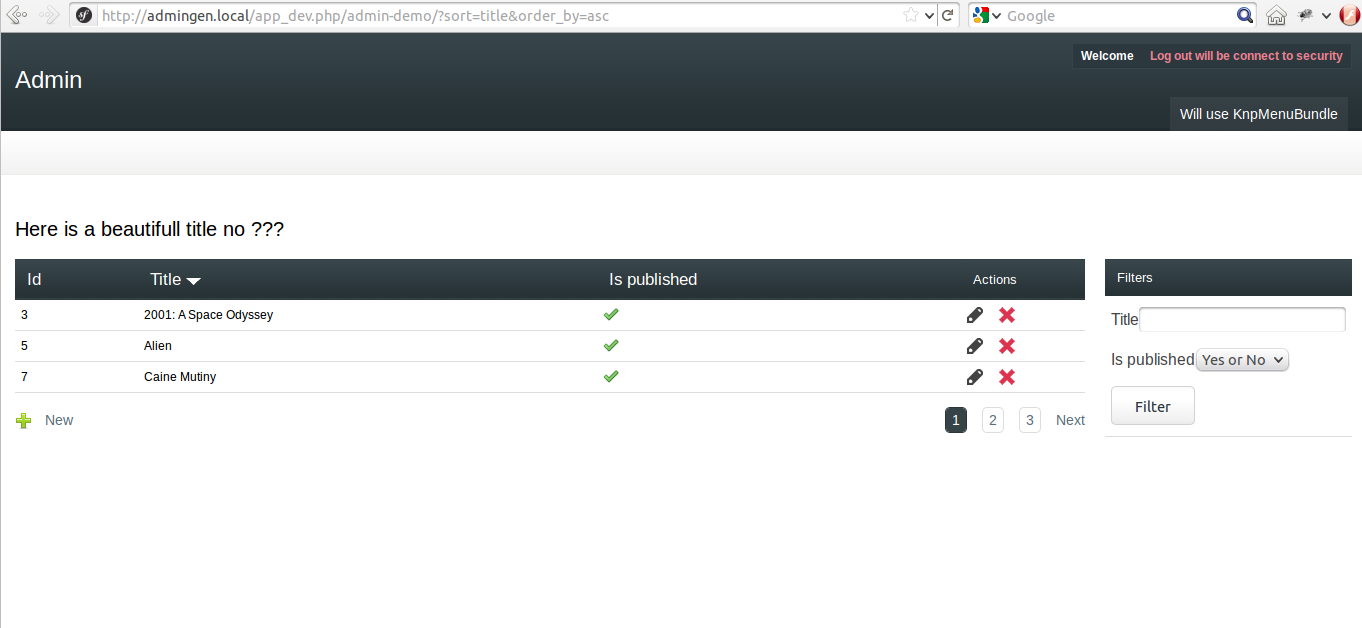
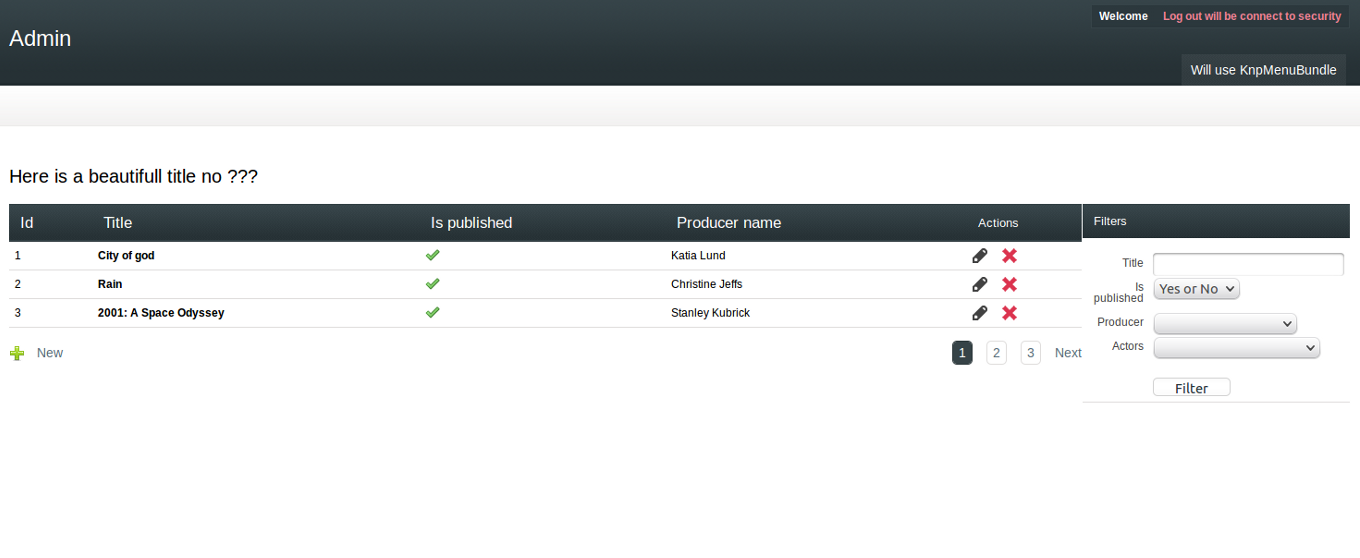
Update preview pictures

Changed region(s): [[0.0, 0.3047, 1.0, 0.7312], [0.0, 0.0, 1.0, 0.2133], [0.4324, 0.5789, 0.4632, 0.6093]]

diff --git a/README.md b/README.md
@@ -4,9 +4,11 @@ This package is a symfony2 admin generator based on YAML conf and twig template
 
 This package is inspired from fzaninotto/Propel2
 
-# In a picture
+# In pictures
 
 ![Preview of list](https://github.com/cedriclombardot/AdmingeneratorGeneratorBundle/raw/master/Resources/doc/list-preview.png)
+
+![Preview of edit](https://github.com/cedriclombardot/AdmingeneratorGeneratorBundle/raw/master/Resources/doc/edit-preview.png)
 
 # Want to run a test ?
 
